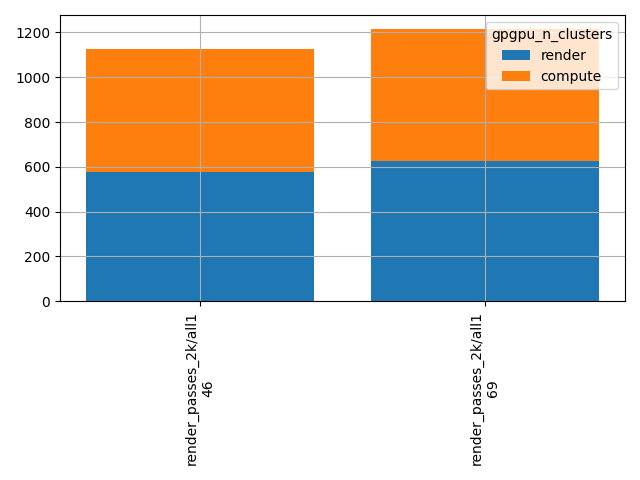
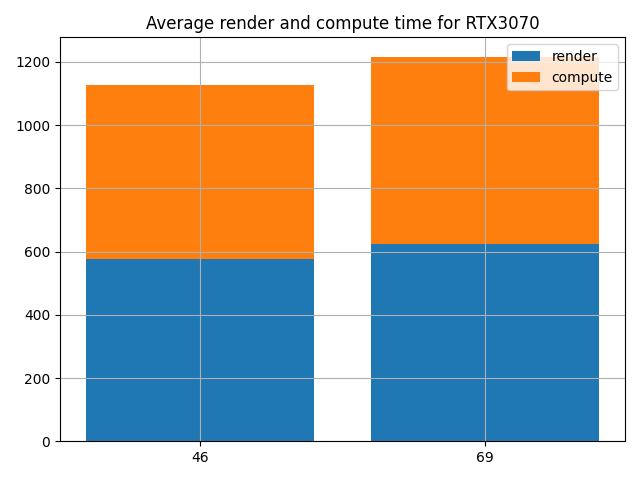
Finishing touches

diff --git a/accel-sim-framework/pipeline/utility/plots/stacked_bar_chart.py b/accel-sim-framework/pipeline/utility/plots/stacked_bar_chart.py
@@ -1,4 +1,5 @@
 #!/usr/bin/env python3
+from __future__ import annotations
 
 from pathlib import Path
 import pandas as pd
@@ -6,6 +7,13 @@ import matplotlib
 matplotlib.use("Agg")
 import matplotlib.pyplot as plt
 import numpy as np
+import utility.parser as ps
+
+PIPELINE_ROOT = Path(__file__).resolve().parent.parent
+PIPELINE_YAML = PIPELINE_ROOT.parent / "setup" / "pipeline.yaml"
+
+pipeline = {}
+experiment = {}
 
 # Method for grouping data
 # df is the csv file as a input
@@ -37,6 +45,15 @@ def compute_avg_data(data_list):
 # The function fetches all unic benchmark based on a csv file
 # df is the csv file object pass as a parameter.
 def fetch_benchmarks(df):
+    #benchmark_list = []
+    #for col_name in df.columns[1:]:
+        #if col_name == "AVG":
+           # continue
+       # name_split = col_name.split("/")
+      #  name = name_split[0] + "/" + name_split[1]
+       # benchmark_list.append(name)
+    #return set(benchmark_list)
+
     benchmark_list = []
     for col_name in df.columns[1:]:
         if col_name == "AVG":
@@ -92,7 +109,23 @@ def compute_avg_data_list(df, len_config, benchmarks):
         avg_data_list.append(row_out)
     return avg_data_list
 
+def get_gpu_name(csv_path: str) -> str:
+    gpu_name = Path(csv_path).parent.name
+    return gpu_name
 
+def get_benchmark_name():
+    global pipeline
+    pipeline = ps.get_pipeline(PIPELINE_YAML)
+    exp_name = pipeline.experiment.name
+
+    global experiment
+    experiment = ps.get_experiment(pipeline.experiment.name)
+    benchmark = experiment.benchmarks[0]
+
+    if ":" in benchmark:
+        benchmark_name = benchmark.split(":")[1].strip()
+        return benchmark_name
+    return benchmark.strip()
 
 
 def staked_bar_chart(csv_path: str) -> None:
@@ -100,28 +133,39 @@ def staked_bar_chart(csv_path: str) -> None:
     df = pd.read_csv(csv_path)
 
     benchmarks = sorted(fetch_benchmarks(df))
-    configs = get_config_metric(df)
+    configs = sorted(get_config_metric(df))
     len_benchmarks = len(benchmarks)
     len_config = len(configs)
 
     x_benchmarks, x_configs = gorup_benchmakr_with_configs(benchmarks, configs)
-    x_labels = [f"{b}\n{c}" for b, c in zip(x_benchmarks, x_configs)]
+    #x_labels = [f"{b}\n{c}" for b, c in zip(x_benchmarks, x_configs)]
+    x_labels = configs
+
     x_pos = np.arange(len(x_labels))
 
     avg_data_list = compute_avg_data_list(df, len_config, benchmarks)
     y_render, y_compute = group_y_data(len_config, len_benchmarks, avg_data_list)
 
+    gpu_name = get_gpu_name(csv_path)
+    benchmark_name = get_benchmark_name()
+
     plt.bar(x_pos, y_render, label="render")
     plt.bar(x_pos, y_compute, bottom=y_render, label="compute")
-    plt.xticks(x_pos, x_labels, rotation=90)
-    plt.legend(title=get_config_metric_name(df))
+    plt.xticks(x_pos, x_labels)
+    plt.legend()
+    plt.title(f"Average render and compute time for {gpu_name}\n {benchmark_name}")
     plt.tight_layout()
     plt.grid(True)
+    plt.savefig(csv_path.with_suffix("").parent / f"{csv_path.stem}_stacked_bar_chart.png", dpi=300, bbox_inches="tight")
+    #plt.savefig("test_plot.png")
     plt.savefig("test_plot.png")
     plt.close()
 
 def main():
-    #staked_bar_chart("/cluster/home/olekd/projects/crisp_framework/accel-sim-framework/pipeline/results/export/RTX3070/more_streaming_multiprocessors.csv")
+    csv_dir= "/cluster/home/olekd/projects/crisp_framework/accel-sim-framework/pipeline/results/export/RTX3070/more_streaming_multiprocessors.csv"
+    print("Result dir: ", get_result_dir(csv_dir))
+    #staked_bar_chart(csv_dir)
+
     
 
 

diff --git a/accel-sim-framework/pipeline/analyze.py b/accel-sim-framework/pipeline/analyze.py
@@ -1,20 +1,22 @@
 #!/usr/bin/env python3
+from __future__ import annotations
 
 # Todo: Her kan vi lage kode for å lese csv- og visualizer-fil for å generere plots 
 # Todo: Det er mulig vi er interessert i andre plots enn det som allerede finnes av plottescripts
 # Todo: Det kan også være en idé å lage noe som trekker ut et gitt sett med verdier fra de forskjellige resultat-filene 
 # Todo: ... og sammenligner hvilket som oppnådde best IPC, og deretter lagrer disse tallene + konfigurasjonen som ble brukt
 # Todo: ... Det ville være gull verdt når vi gjør design-sweepinga!
+from pathlib import Path
 import os
 import sys
 import argparse
 import utility.parser as ps
 
-from pathlib import Path
-from __future__ import annotations
+
 
 #Importing functions for plotting
 from utility.plots.bar_chart import bar_chart
+from utility.plots.stacked_bar_chart import staked_bar_chart
 
 PIPELINE_ROOT = Path(__file__).resolve().parent
 PIPELINE_YAML = os.path.join(PIPELINE_ROOT, "setup", "pipeline.yaml")
@@ -51,9 +53,14 @@ def find_experiment_csvs(metric_metric: str) -> list[Path]:
     return sorted([p for p in hits if p.is_file()])
 
 def default_run():
-    metric_metric = load_metric_metric()
-    csvs = find_experiment_csvs(metric_metric)
-    run_bar_charts_for_csvs(csvs)
+    #metric_metric = load_metric_metric()
+    global pipeline
+    pipeline = ps.get_pipeline(PIPELINE_YAML)
+    exp_name = pipeline.experiment.name
+    print(exp_name)
+    csvs = find_experiment_csvs(exp_name)
+    #run_bar_charts_for_csvs(csvs)
+    run_stacked_bar_charts_for_csvs(csvs)
 
 def run_bar_charts_for_csvs(csv_paths: list[Path]):
     if not csv_paths:
@@ -68,6 +75,21 @@ def run_bar_charts_for_csvs(csv_paths: list[Path]):
             print(f"plotted: {csv_path}")
         except TypeError:
             bar_chart(str(csv_path))
+            print(f"plotted: {csv_path}")
+
+def run_stacked_bar_charts_for_csvs(csv_paths: list[Path]):
+    if not csv_paths:
+        print("No matching CSV files found.")
+        return
+
+    print(f"Found {len(csv_paths)} CSV files. Generating stacked bar charts...")
+
+    for csv_path in csv_paths:
+        try:
+            staked_bar_chart(str(csv_path))
+            print(f"plotted: {csv_path}")
+        except TypeError:
+            staked_bar_chart(str(csv_path))
             print(f"plotted: {csv_path}")
 
 
